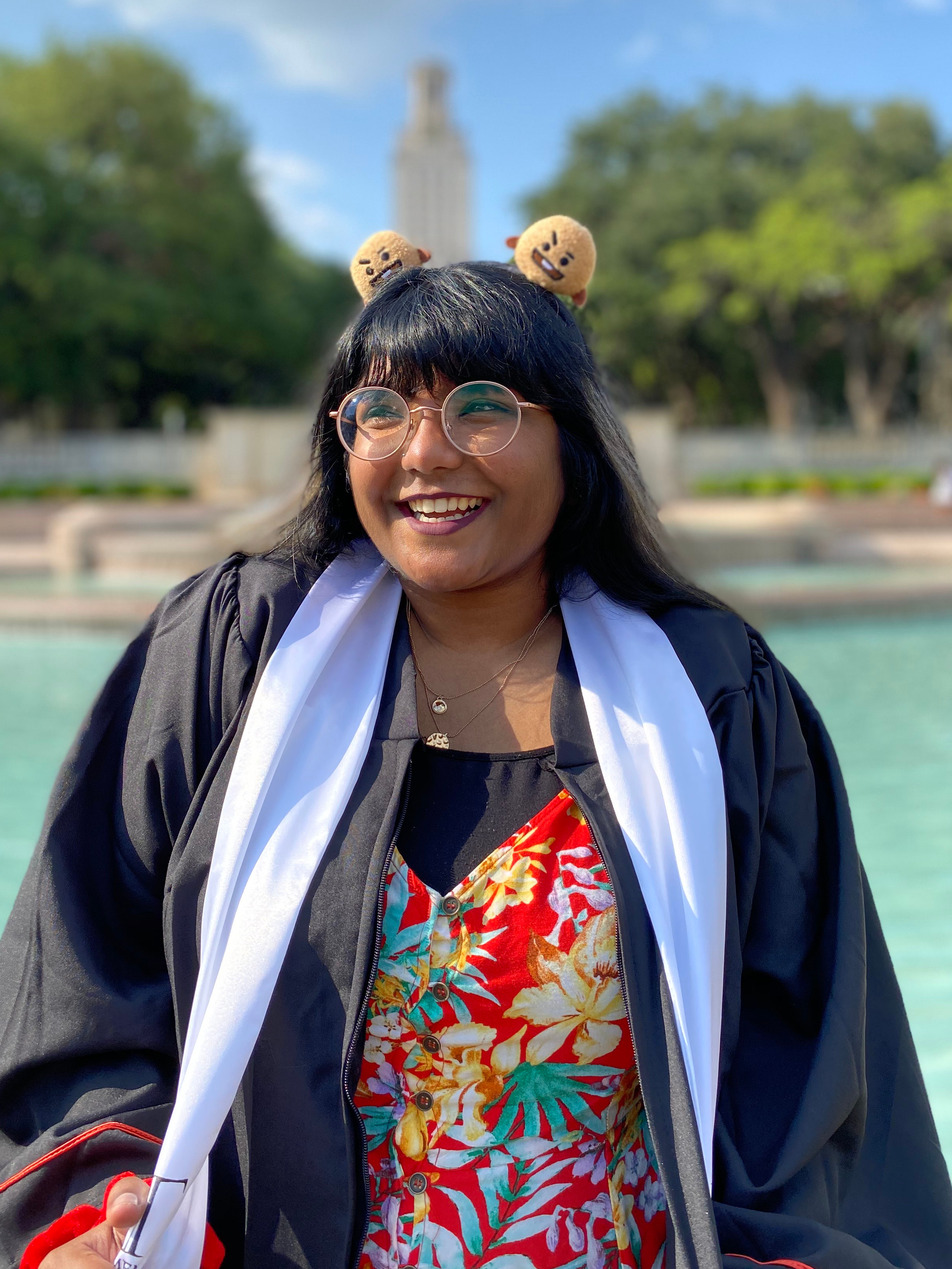
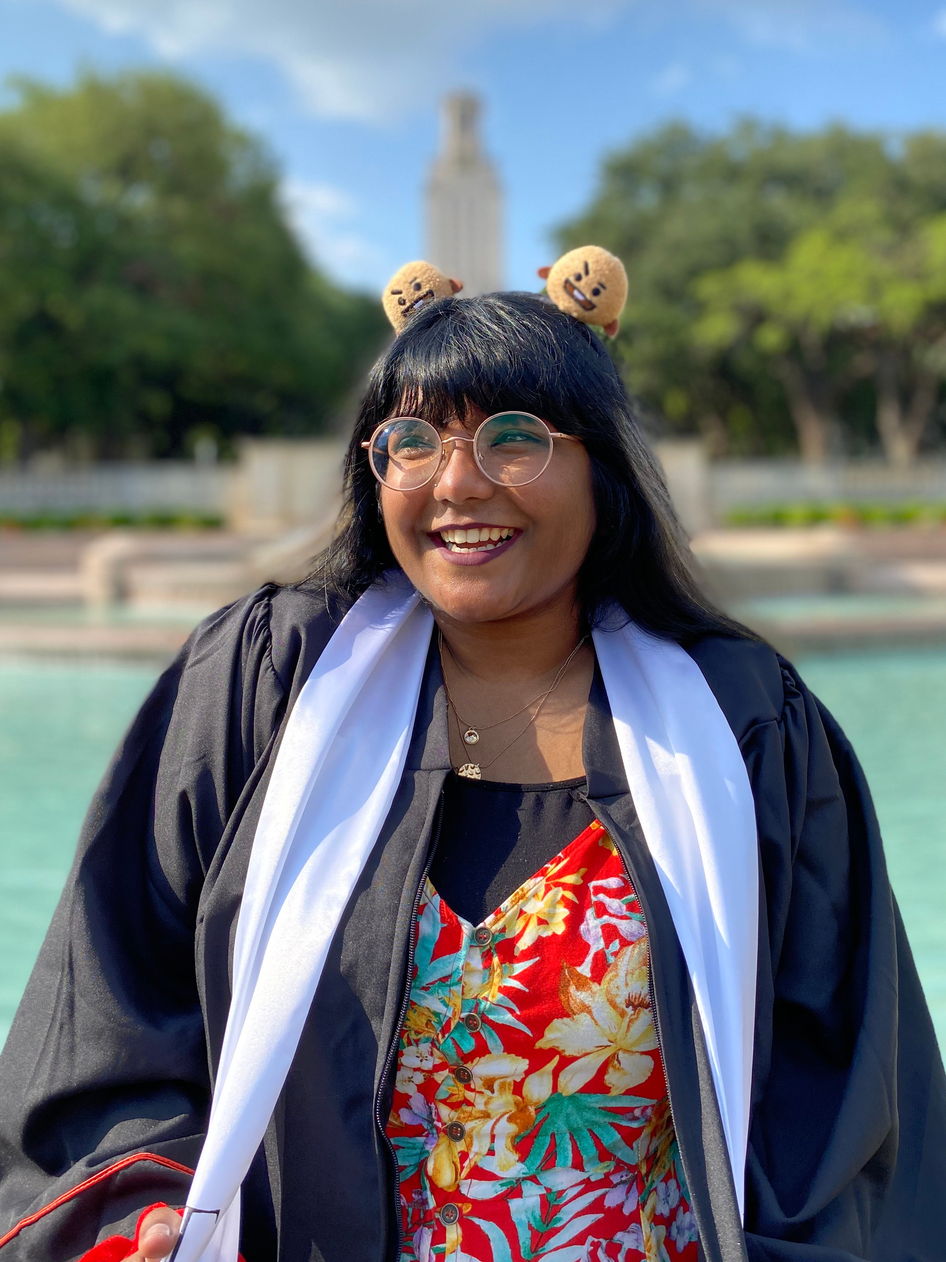
Update images

diff --git a/content/people/joshuachang.md b/content/people/joshuachang.md
@@ -5,7 +5,7 @@ github_username = ""
 instagram_username = ""
 linkedin_username = "joshua-chang-165576153"
 name = "Joshua Chang"
-picture = "/images/54729631_1722987561135284_4093419444464779264_o-copy-jc3553flute.jpeg"
+picture = "/images/joshuachang.jpeg"
 twitter_username = ""
 type = "person"
 website = ""
